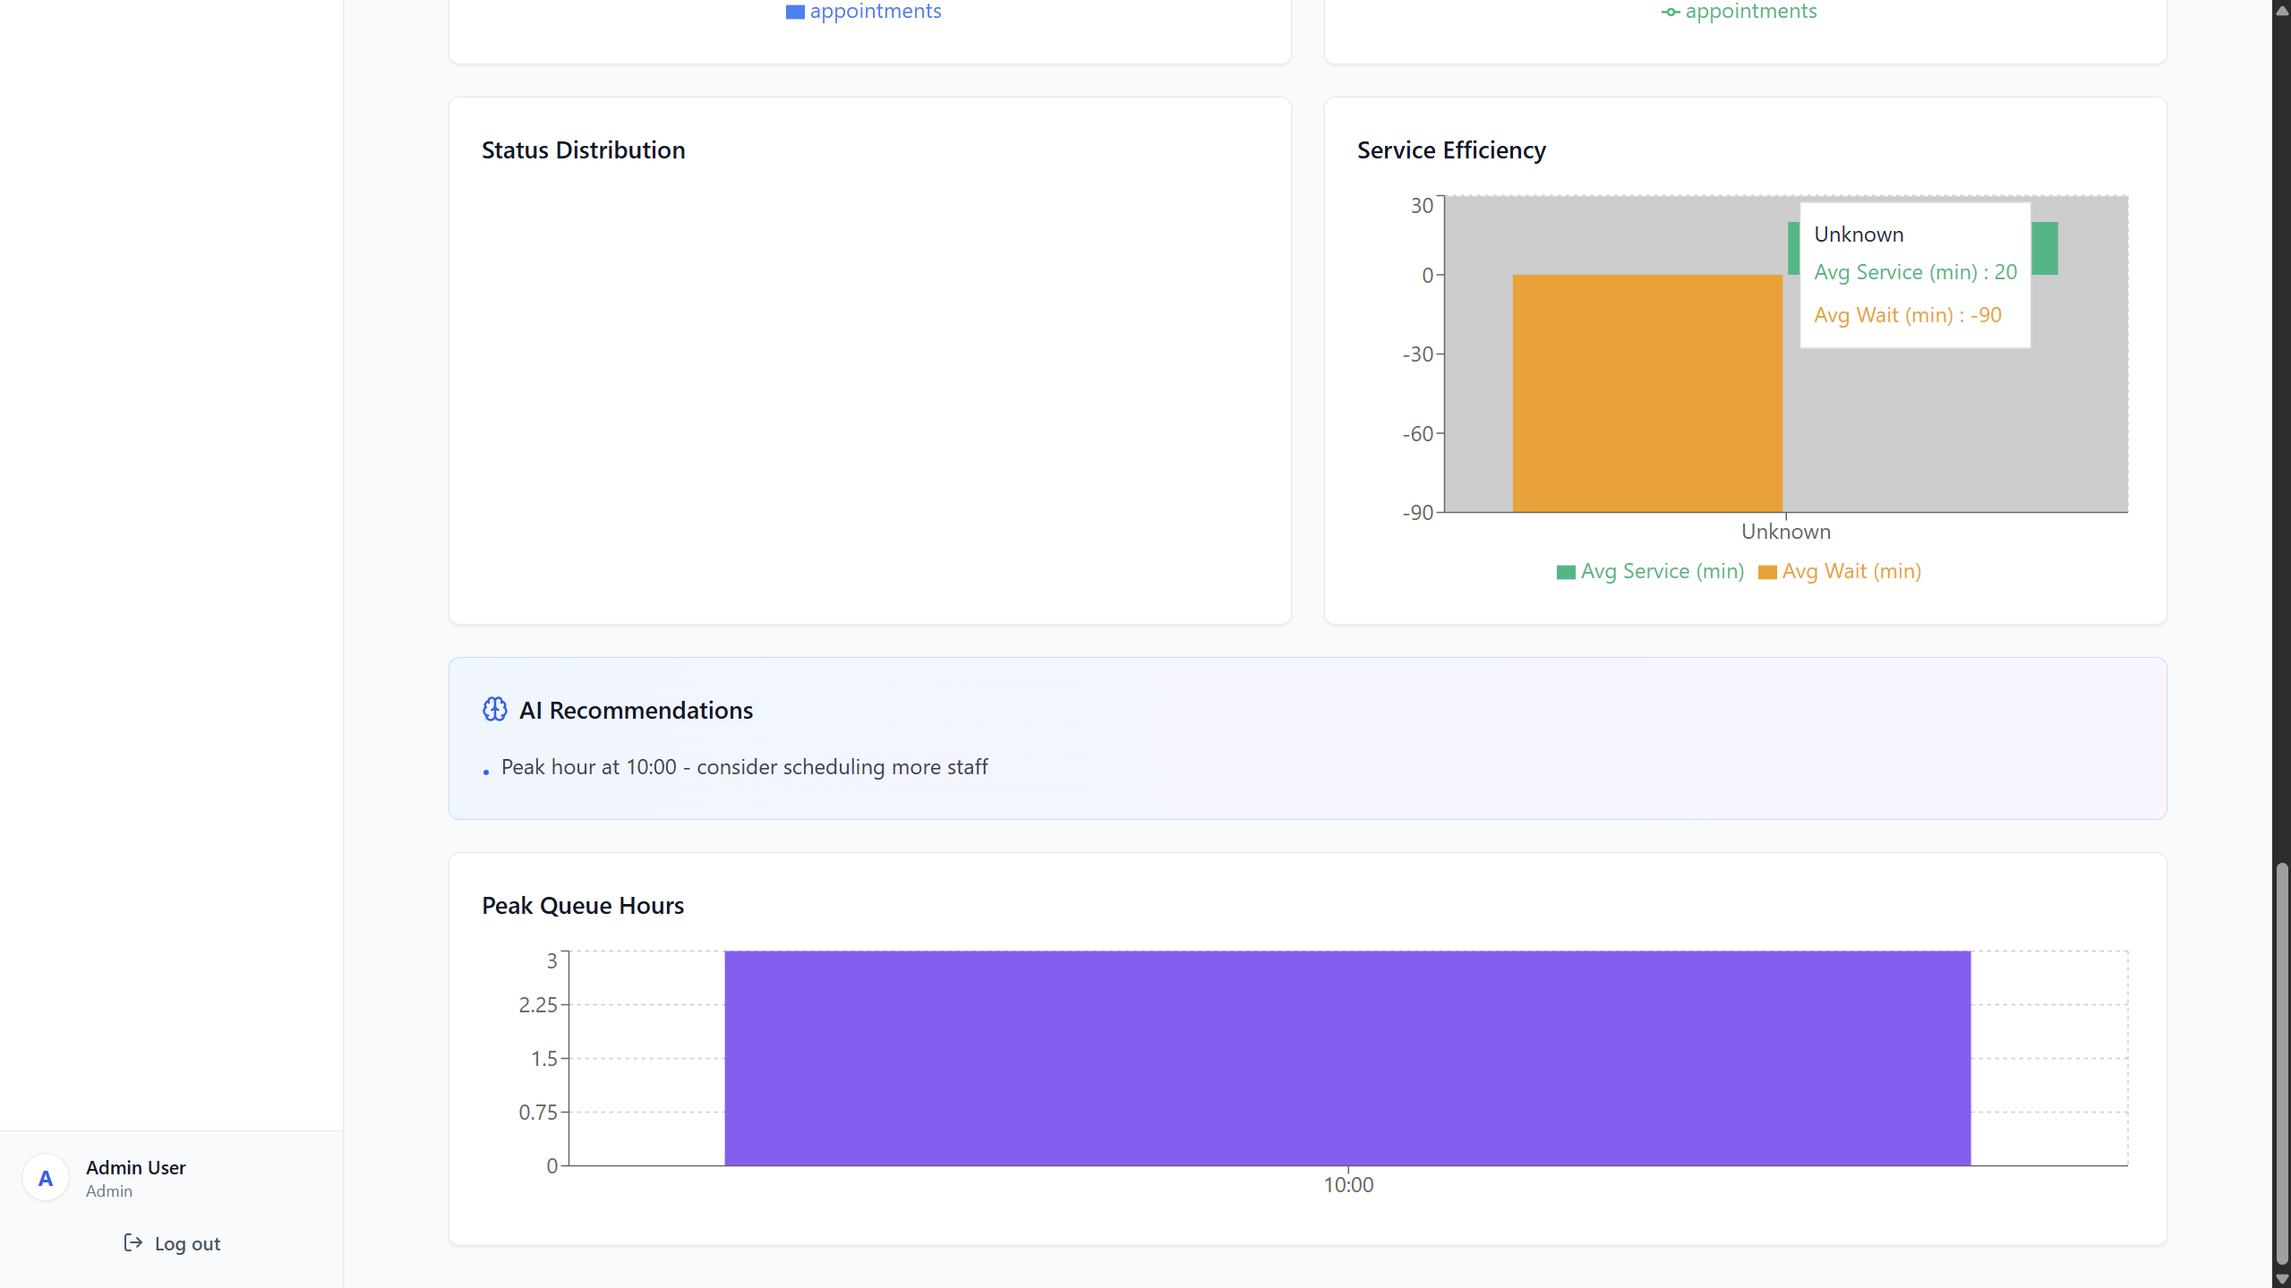
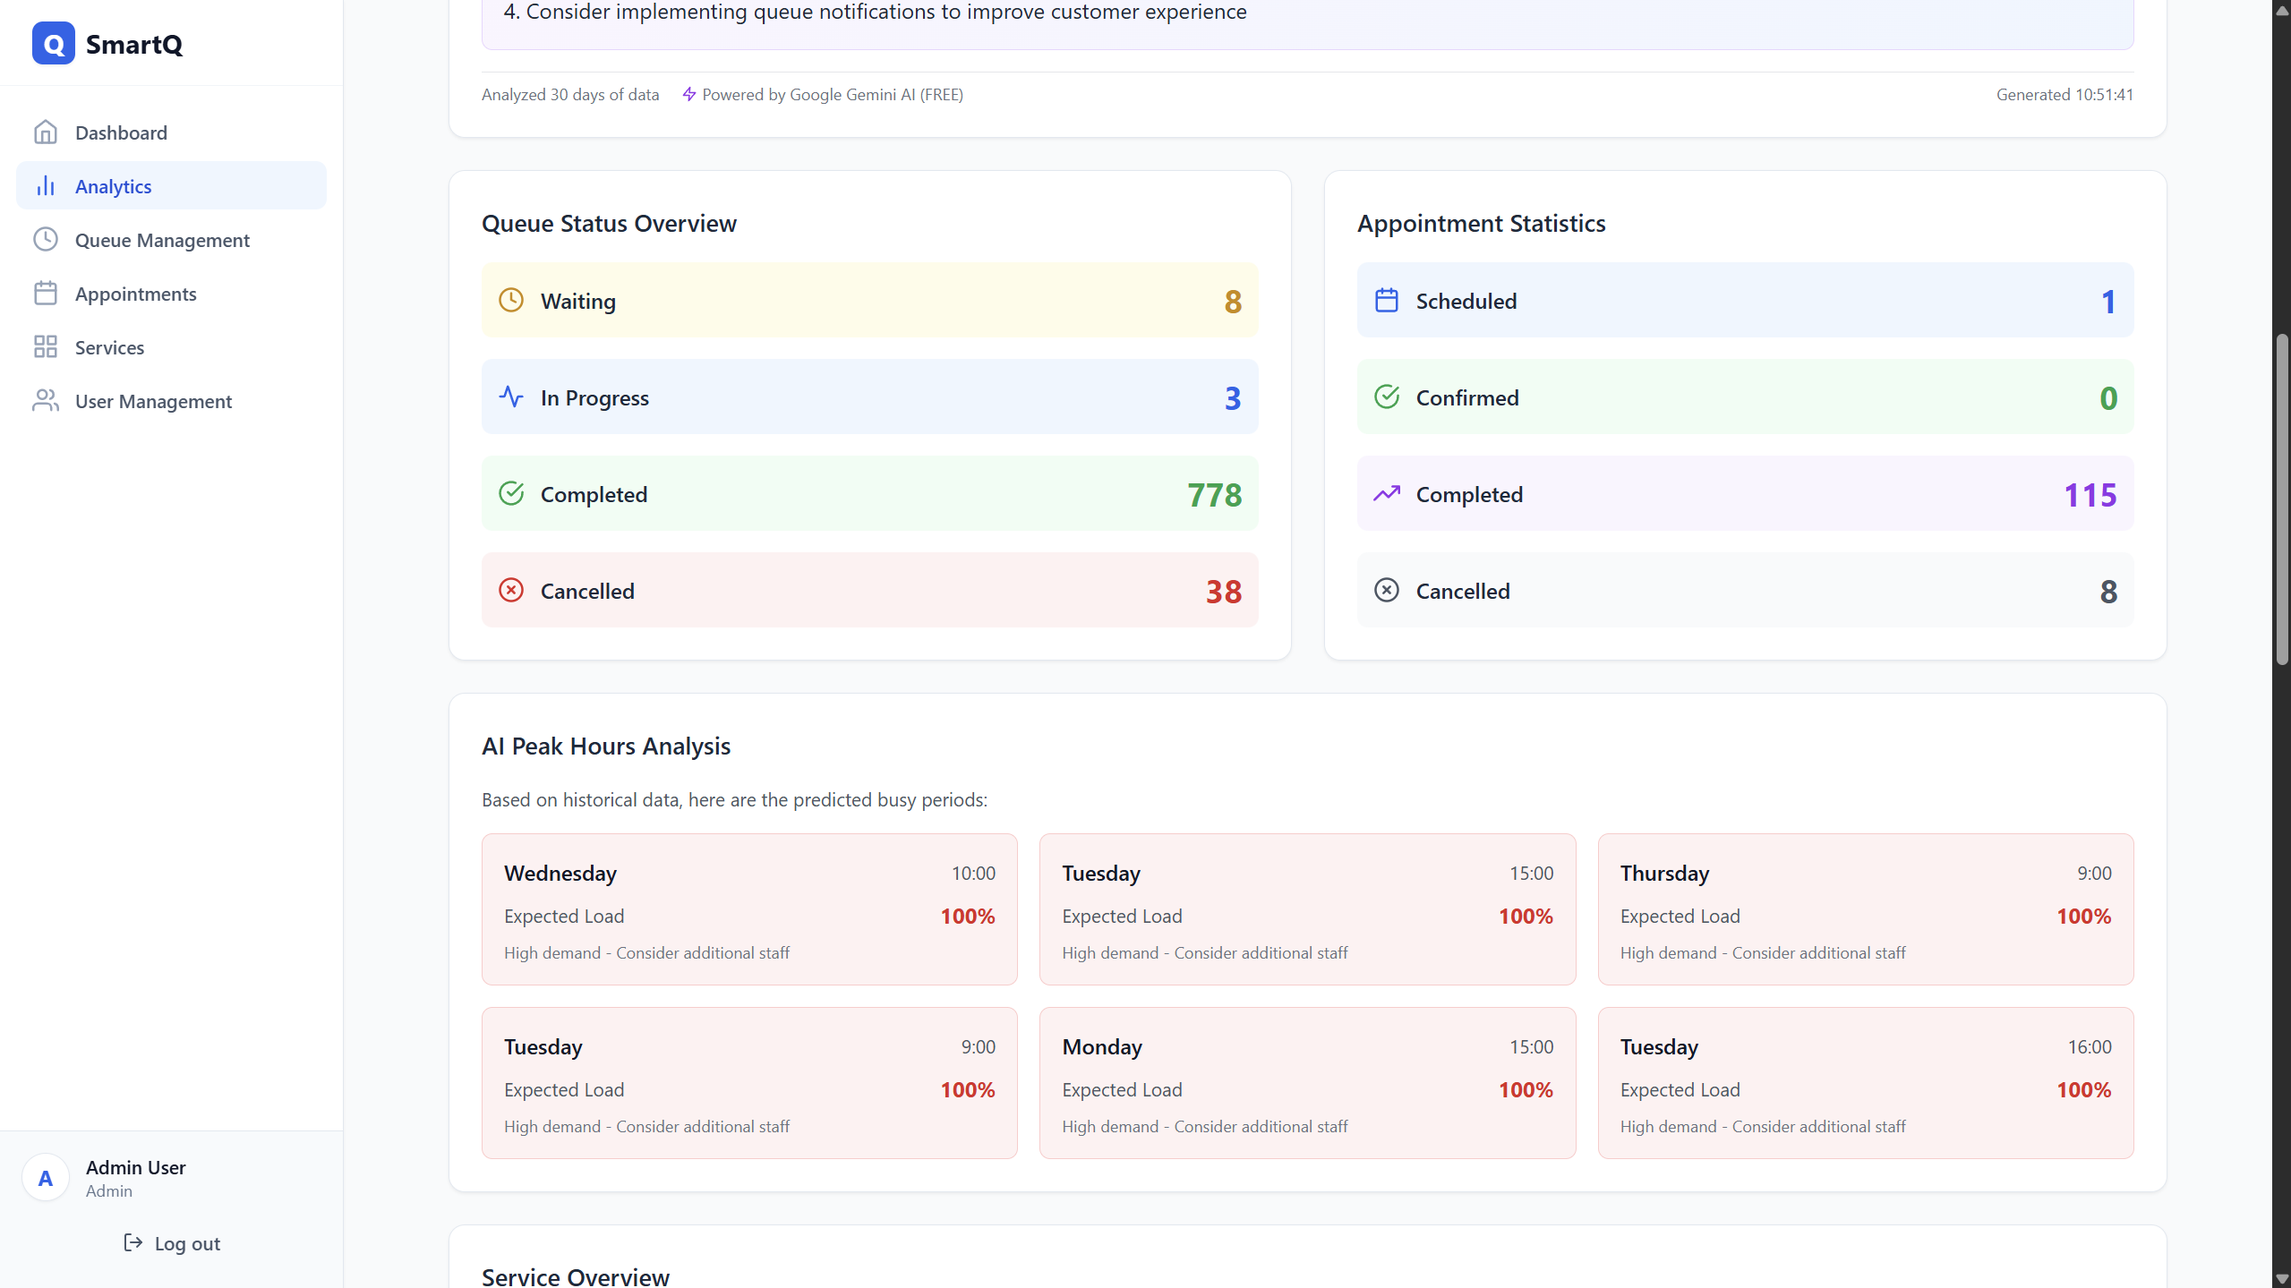
feat: Add scripts to seed current and historical queue data
- Implemented seedCurrentQueue.ts to populate the current queue with waiting and in-progress customers, including priority handling and counter status updates.
- Developed seedHistoricalData.ts to generate and insert historical queue and appointment data for the past 30 days, ensuring realistic patterns based on peak hours and customer behavior.
- Included error handling and database connection management in both scripts.

diff --git a/server/src/scripts/seedHistoricalData.ts b/server/src/scripts/seedHistoricalData.ts
@@ -1,0 +1,195 @@
+import mongoose from 'mongoose';
+import dotenv from 'dotenv';
+import path from 'path';
+
+// Load env vars
+dotenv.config({ path: path.join(__dirname, '../../.env') });
+
+import Queue from '../models/Queue';
+import Appointment from '../models/Appointment';
+import Service from '../models/Service';
+import User from '../models/User';
+import Counter from '../models/Counter';
+import { QueueStatus, AppointmentStatus, UserRole } from '../types';
+
+const seedHistoricalData = async () => {
+  try {
+    console.log('🔌 Connecting to database...');
+    await mongoose.connect(process.env.MONGODB_URI || 'mongodb://localhost:27017/smartq');
+    console.log('✅ Connected to database');
+
+    // Get all services
+    const services = await Service.find({ status: 'active' });
+    if (services.length === 0) {
+      console.log('❌ No services found. Please run seedServices.ts first.');
+      return;
+    }
+    console.log(`✅ Found ${services.length} services`);
+
+    // Get customers
+    const customers = await User.find({ role: UserRole.CUSTOMER });
+    if (customers.length === 0) {
+      console.log('❌ No customers found. Please run seedUsers.ts first.');
+      return;
+    }
+    console.log(`✅ Found ${customers.length} customers`);
+
+    // Get staff and counters
+    const staffMembers = await User.find({ role: UserRole.STAFF });
+    const counters = await Counter.find();
+    console.log(`✅ Found ${staffMembers.length} staff members and ${counters.length} counters`);
+
+    console.log('🗑  Clearing historical data...');
+    // Keep today's data, remove only old historical data
+    const today = new Date();
+    today.setHours(0, 0, 0, 0);
+    await Queue.deleteMany({ createdAt: { $lt: today } });
+    await Appointment.deleteMany({ appointmentDate: { $lt: today } });
+    console.log('✅ Old historical data cleared');
+
+    // Generate data for the past 30 days
+    const now = new Date();
+    const historicalData = {
+      queues: [] as any[],
+      appointments: [] as any[]
+    };
+
+    console.log('📊 Generating historical data for the past 30 days...');
+
+    // Peak hours in Sri Lanka: 9-11 AM and 3-5 PM (after work/lunch)
+    const peakHours = [9, 10, 15, 16];
+    const regularHours = [8, 11, 12, 13, 14, 17];
+
+    for (let daysAgo = 30; daysAgo >= 1; daysAgo--) {
+      const date = new Date(now);
+      date.setDate(date.getDate() - daysAgo);
+      
+      // Skip Sundays (most Sri Lankan businesses closed)
+      if (date.getDay() === 0) continue;
+      
+      // Saturday has fewer appointments (half day)
+      const isSaturday = date.getDay() === 6;
+      const maxEntriesPerHour = isSaturday ? 2 : 4;
+
+      // Generate queue entries for this day
+      [...peakHours, ...regularHours].forEach(hour => {
+        const entriesCount = peakHours.includes(hour) 
+          ? Math.floor(Math.random() * maxEntriesPerHour) + maxEntriesPerHour 
+          : Math.floor(Math.random() * (maxEntriesPerHour - 1)) + 1;
+
+        for (let i = 0; i < entriesCount; i++) {
+          const customer = customers[Math.floor(Math.random() * customers.length)];
+          const service = services[Math.floor(Math.random() * services.length)];
+          const counter = counters[Math.floor(Math.random() * counters.length)];
+          
+          const startTime = new Date(date);
+          startTime.setHours(hour, Math.floor(Math.random() * 60), 0, 0);
+          
+          const duration = service.duration || 30;
+          const endTime = new Date(startTime.getTime() + duration * 60000);
+          
+          // 95% completion rate for historical data
+          const isCompleted = Math.random() > 0.05;
+
+          historicalData.queues.push({
+            queueNumber: historicalData.queues.length + 1,
+            customer: customer._id,
+            service: service._id,
+            counter: counter._id,
+            status: isCompleted ? QueueStatus.COMPLETED : QueueStatus.CANCELLED,
+            priority: Math.random() > 0.9 ? 5 : 0, // 10% priority cases
+            estimatedTime: startTime,
+            actualStartTime: startTime,
+            actualEndTime: isCompleted ? endTime : null,
+            createdAt: new Date(startTime.getTime() - 30 * 60000), // Created 30 mins before
+            updatedAt: endTime
+          });
+        }
+      });
+
+      // Generate appointments for future dates (next 14 days from this past date)
+      if (daysAgo <= 14) {
+        const appointmentsPerDay = isSaturday ? 6 : 12;
+        
+        for (let i = 0; i < appointmentsPerDay; i++) {
+          const customer = customers[Math.floor(Math.random() * customers.length)];
+          const service = services[Math.floor(Math.random() * services.length)];
+          const staff = staffMembers[Math.floor(Math.random() * staffMembers.length)];
+          
+          const appointmentDate = new Date(date);
+          const hour = [...peakHours, ...regularHours][Math.floor(Math.random() * (peakHours.length + regularHours.length))];
+          appointmentDate.setHours(hour, [0, 15, 30, 45][Math.floor(Math.random() * 4)], 0, 0);
+          
+          // Determine status based on whether appointment is in the past
+          let status;
+          if (appointmentDate < now) {
+            // 90% completed, 5% cancelled, 5% no-show
+            const rand = Math.random();
+            if (rand < 0.9) status = AppointmentStatus.COMPLETED;
+            else if (rand < 0.95) status = AppointmentStatus.CANCELLED;
+            else status = AppointmentStatus.NO_SHOW;
+          } else {
+            // 95% confirmed, 5% scheduled
+            status = Math.random() > 0.05 ? AppointmentStatus.CONFIRMED : AppointmentStatus.SCHEDULED;
+          }
+
+          historicalData.appointments.push({
+            customer: customer._id,
+            service: service._id,
+            appointmentDate: appointmentDate,
+            appointmentTime: `${hour.toString().padStart(2, '0')}:${appointmentDate.getMinutes().toString().padStart(2, '0')}`,
+            status: status,
+            notes: status === AppointmentStatus.COMPLETED 
+              ? 'Consultation completed successfully' 
+              : status === AppointmentStatus.CANCELLED 
+              ? 'Patient requested cancellation'
+              : status === AppointmentStatus.NO_SHOW
+              ? 'Patient did not arrive'
+              : 'Appointment booked online',
+            staffAssigned: staff?._id,
+            createdAt: new Date(appointmentDate.getTime() - 24 * 60 * 60000), // Created 1 day before
+            updatedAt: appointmentDate > now ? new Date() : appointmentDate
+          });
+        }
+      }
+    }
+
+    // Insert historical data in batches
+    console.log('💾 Inserting historical queue data...');
+    if (historicalData.queues.length > 0) {
+      await Queue.insertMany(historicalData.queues);
+      console.log(`✅ Inserted ${historicalData.queues.length} historical queue entries`);
+    }
+
+    console.log('💾 Inserting historical appointment data...');
+    if (historicalData.appointments.length > 0) {
+      // Insert directly into collection to bypass Mongoose validation for historical dates
+      await Appointment.collection.insertMany(historicalData.appointments);
+      console.log(`✅ Inserted ${historicalData.appointments.length} historical appointments`);
+    }
+
+    // Display summary
+    console.log('\n📊 Historical Data Summary:');
+    console.log(`   Date Range: Past 30 days`);
+    console.log(`   Queue Entries: ${historicalData.queues.length}`);
+    console.log(`   Appointments: ${historicalData.appointments.length}`);
+    
+    const completedQueues = historicalData.queues.filter(q => q.status === QueueStatus.COMPLETED).length;
+    const completedAppointments = historicalData.appointments.filter(a => a.status === AppointmentStatus.COMPLETED).length;
+    
+    console.log(`   - Completed Queues: ${completedQueues}`);
+    console.log(`   - Completed Appointments: ${completedAppointments}`);
+    console.log(`   - Completion Rate: ${Math.round((completedQueues / historicalData.queues.length) * 100)}%`);
+    
+    console.log('\n✨ Historical data seeded successfully!');
+    console.log('💡 AI Analytics will now have sufficient data for insights.');
+    
+  } catch (error) {
+    console.error('❌ Error seeding historical data:', error);
+  } finally {
+    await mongoose.connection.close();
+    console.log('🔌 Database connection closed');
+  }
+};
+
+seedHistoricalData();

diff --git a/server/src/scripts/seedCurrentQueue.ts b/server/src/scripts/seedCurrentQueue.ts
@@ -1,0 +1,145 @@
+import mongoose from 'mongoose';
+import dotenv from 'dotenv';
+import path from 'path';
+
+// Load env vars
+dotenv.config({ path: path.join(__dirname, '../../.env') });
+
+import Queue from '../models/Queue';
+import Counter from '../models/Counter';
+import Service from '../models/Service';
+import User from '../models/User';
+import { QueueStatus, UserRole, CounterStatus } from '../types';
+
+const seedCurrentQueue = async () => {
+  try {
+    console.log('🔌 Connecting to database...');
+    await mongoose.connect(process.env.MONGODB_URI || 'mongodb://localhost:27017/smartq');
+    console.log('✅ Connected to database');
+
+    // Get all services
+    const services = await Service.find({ status: 'active' });
+    if (services.length === 0) {
+      console.log('❌ No services found. Please run seedServices.ts first.');
+      return;
+    }
+    console.log(`✅ Found ${services.length} services`);
+
+    // Get customers
+    const customers = await User.find({ role: UserRole.CUSTOMER });
+    if (customers.length === 0) {
+      console.log('❌ No customers found. Please run seedUsers.ts first.');
+      return;
+    }
+    console.log(`✅ Found ${customers.length} customers`);
+
+    // Get staff and counters
+    const counters = await Counter.find();
+    console.log(`✅ Found ${counters.length} counters`);
+
+    // Delete only today's queue entries (to refresh current state)
+    const today = new Date();
+    today.setHours(0, 0, 0, 0);
+    const tomorrow = new Date(today);
+    tomorrow.setDate(tomorrow.getDate() + 1);
+    
+    await Queue.deleteMany({
+      createdAt: { $gte: today, $lt: tomorrow }
+    });
+    console.log('✅ Cleared today\'s queue entries');
+
+    const now = new Date();
+    const currentQueues = [];
+
+    // Get the last queue number
+    const lastQueue = await Queue.findOne().sort({ queueNumber: -1 });
+    let queueNumberCounter = (lastQueue?.queueNumber || 0) + 1;
+
+    // Create 8 waiting customers (realistic morning queue in Sri Lanka)
+    console.log('👥 Creating waiting queue entries...');
+    for (let i = 0; i < 8; i++) {
+      const customer = customers[i % customers.length];
+      const service = services[i % services.length];
+      const estimatedTime = new Date(now.getTime() + ((i + 1) * 12) * 60000); // 12 min intervals
+
+      currentQueues.push({
+        queueNumber: queueNumberCounter++,
+        customer: customer._id,
+        service: service._id,
+        status: QueueStatus.WAITING,
+        priority: i === 0 ? 5 : i === 1 ? 3 : 0, // First two have priority
+        estimatedTime: estimatedTime,
+        notes: i === 0 ? 'Senior citizen - Priority service' : i === 1 ? 'Pregnant mother - Priority' : undefined,
+        createdAt: new Date(now.getTime() - (15 - i) * 60000) // Arrived 5-15 mins ago
+      });
+    }
+
+    // Create 3 in-progress customers (being served now)
+    console.log('⏳ Creating in-progress queue entries...');
+    for (let i = 0; i < 3; i++) {
+      const customer = customers[(8 + i) % customers.length];
+      const service = services[i % services.length];
+      const counter = counters[i % counters.length];
+      const startedTime = new Date(now.getTime() - (5 + i * 3) * 60000); // Started 5-11 mins ago
+
+      currentQueues.push({
+        queueNumber: queueNumberCounter++,
+        customer: customer._id,
+        service: service._id,
+        counter: counter._id,
+        status: QueueStatus.IN_PROGRESS,
+        priority: 0,
+        estimatedTime: startedTime,
+        actualStartTime: startedTime,
+        notes: 'Currently being served',
+        createdAt: new Date(startedTime.getTime() - 10 * 60000) // Joined 10 mins before service
+      });
+
+      // Update counter status
+      await Counter.findByIdAndUpdate(counter._id, {
+        status: CounterStatus.BUSY,
+        currentQueue: null // Will be updated after queue is created
+      });
+    }
+
+    // Insert all queue entries
+    const createdQueues = await Queue.insertMany(currentQueues);
+    console.log(`✅ Created ${createdQueues.length} current queue entries`);
+
+    // Update counters with the actual queue references
+    for (let i = 0; i < 3; i++) {
+      const inProgressQueue = createdQueues.find(
+        q => q.status === QueueStatus.IN_PROGRESS && q.counter?.toString() === counters[i % counters.length]._id.toString()
+      );
+      if (inProgressQueue) {
+        await Counter.findByIdAndUpdate(counters[i % counters.length]._id, {
+          currentQueue: inProgressQueue._id
+        });
+      }
+    }
+
+    // Set remaining counters as available
+    for (let i = 3; i < counters.length; i++) {
+      await Counter.findByIdAndUpdate(counters[i]._id, {
+        status: CounterStatus.AVAILABLE,
+        currentQueue: null
+      });
+    }
+
+    console.log('\n📊 Current Queue Summary:');
+    console.log(`   - Waiting: ${currentQueues.filter(q => q.status === QueueStatus.WAITING).length}`);
+    console.log(`   - In Progress: ${currentQueues.filter(q => q.status === QueueStatus.IN_PROGRESS).length}`);
+    console.log(`   - Total Active: ${currentQueues.length}`);
+    
+    console.log('\n✨ Current queue data seeded successfully!');
+    console.log('💡 Refresh your dashboard to see active queues.');
+    
+  } catch (error) {
+    console.error('❌ Error seeding current queue data:', error);
+  } finally {
+    await mongoose.connection.close();
+    console.log('🔌 Database connection closed');
+  }
+};
+
+seedCurrentQueue();

diff --git a/server/src/controllers/aiController.ts b/server/src/controllers/aiController.ts
@@ -32,10 +32,33 @@ export const getPeakHoursPrediction = async (req: AuthRequest, res: Response): P
 
     const predictions = await predictPeakHours(days);
 
+    // Transform predictions to match frontend expectations
+    const transformedPredictions = predictions.map(pred => {
+      const expectedLoad = Math.min(Math.round((pred.predictedVolume / 15) * 100), 100); // Normalize to percentage
+      let recommendation = '';
+      
+      if (expectedLoad > 75) {
+        recommendation = 'High demand - Consider additional staff';
+      } else if (expectedLoad > 50) {
+        recommendation = 'Moderate demand - Standard staffing';
+      } else {
+        recommendation = 'Low demand - Minimum staff required';
+      }
+
+      return {
+        hour: pred.hour,
+        dayOfWeek: pred.dayOfWeek,
+        expectedLoad,
+        recommendation,
+        predictedVolume: pred.predictedVolume,
+        confidence: pred.confidence
+      };
+    });
+
     res.status(200).json({
       success: true,
       data: {
-        predictions,
+        predictions: transformedPredictions,
         analyzedDays: days,
         generatedAt: new Date()
       }

diff --git a/client/src/pages/Analytics.tsx b/client/src/pages/Analytics.tsx
@@ -109,7 +109,9 @@ const Analytics: React.FC = () => {
         });
 
         if (peakHoursRes.success && peakHoursRes.data) {
-          setPeakHours(peakHoursRes.data);
+          // Extract predictions array from the response
+          const predictionsData = peakHoursRes.data.predictions || peakHoursRes.data;
+          setPeakHours(Array.isArray(predictionsData) ? predictionsData : []);
         }
 
         if (insightsRes.success && insightsRes.data) {

diff --git a/README.md b/README.md
@@ -371,6 +371,9 @@ VITE_API_URL=http://localhost:5000/api
 ![AI Analytics](./screenshots/analytics2.png)
 *AI-powered analytics with intelligent insights*
 
+![AI Analytics Details](./screenshots/analytics3.png)
+*Detailed AI analytics with peak hours and recommendations*
+
 ### Queue Management
 ![Queue Management](./screenshots/queuemanagement.png)
 *Real-time queue management interface*
